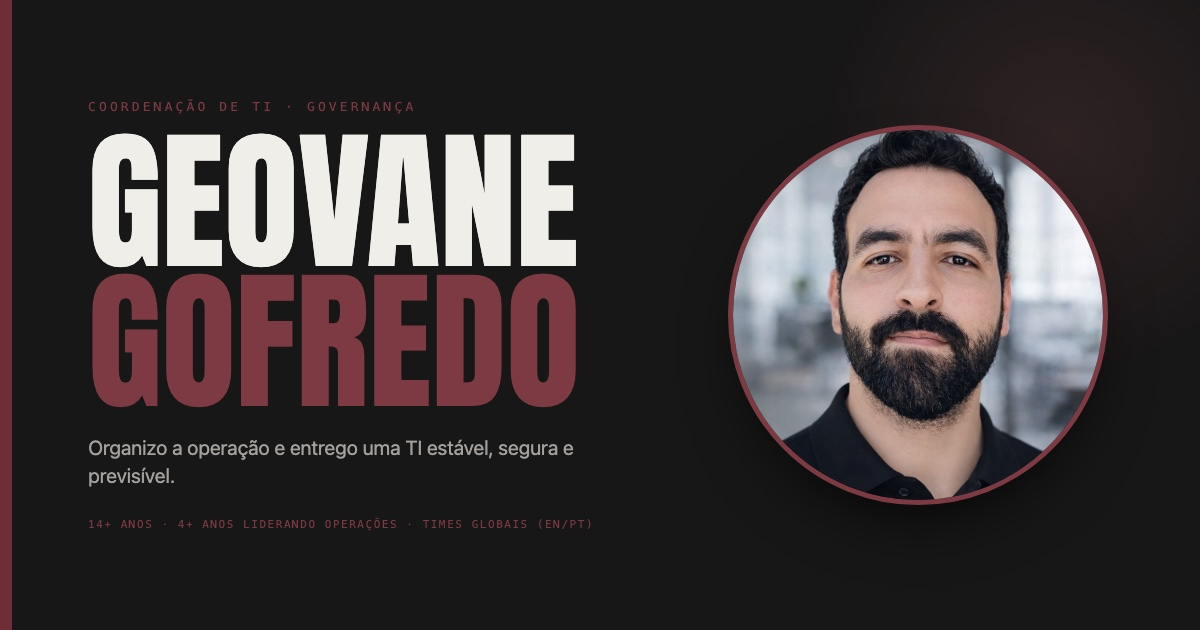
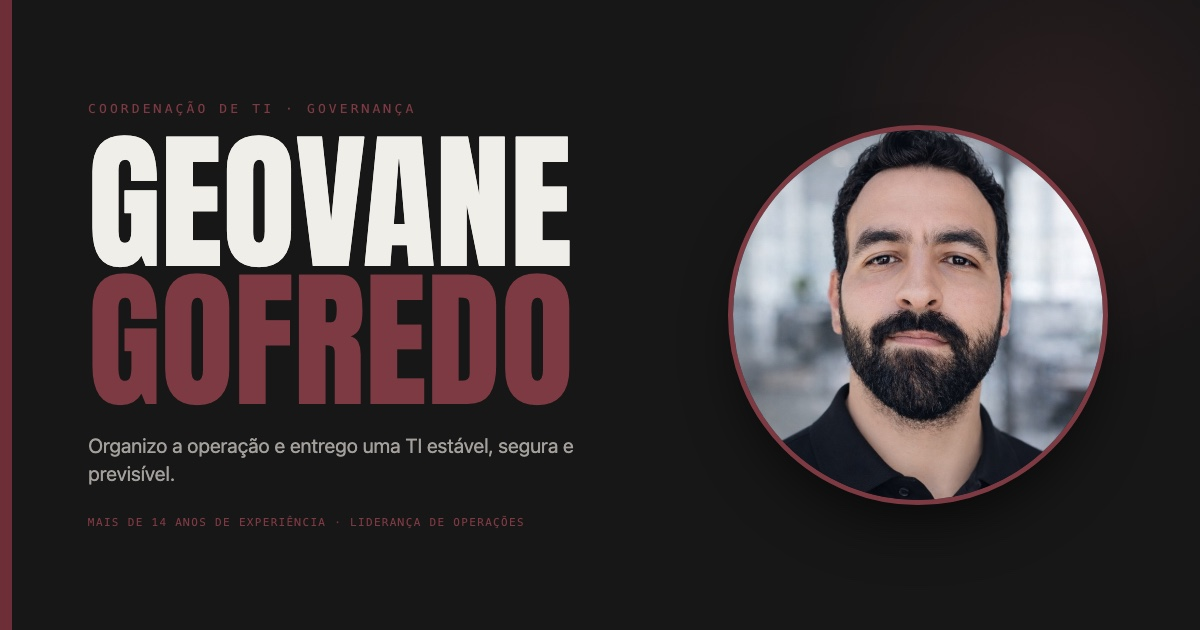
Reorganiza layout, atualiza indicadores e adiciona GitHub

diff --git a/src/components/sections/HeroSection.tsx b/src/components/sections/HeroSection.tsx
@@ -7,7 +7,7 @@ export default function HeroSection() {
   const handle = personalInfo.website.split("/").pop();
 
   return (
-    <section id="top" className="relative w-full max-w-7xl mx-auto px-6 md:px-12 pt-24 pb-12 md:pt-28 md:pb-16 overflow-hidden">
+    <section id="top" className="relative w-full max-w-6xl mx-auto px-6 md:px-12 pt-20 pb-8 md:pt-24 md:pb-12 overflow-hidden">
       <div
         aria-hidden="true"
         className="pointer-events-none absolute inset-0 -z-10 opacity-[0.12]"
@@ -31,12 +31,12 @@ export default function HeroSection() {
         </span>
       </motion.p>
 
-      <div className="grid lg:grid-cols-12 gap-8 lg:gap-12 items-center">
+      <div className="grid lg:grid-cols-[minmax(0,720px)_auto] gap-8 lg:gap-16 items-center">
         <motion.div
           initial={{ opacity: 0, y: 18 }}
           animate={{ opacity: 1, y: 0 }}
           transition={{ duration: 0.55, delay: 0.08 }}
-          className="lg:col-span-7"
+          className="min-w-0"
         >
           <h1 className="font-display uppercase tracking-tight leading-[0.9] text-foreground text-[clamp(3rem,8vw,5rem)]">
             Geovane
@@ -44,21 +44,21 @@ export default function HeroSection() {
             <span className="font-display text-accent-bright">Gofredo</span>
           </h1>
 
-          <p className="mt-7 max-w-2xl text-[20px] md:text-[24px] leading-[1.4] text-foreground">
+          <p className="mt-6 max-w-2xl text-[20px] md:text-[24px] leading-[1.4] text-foreground">
             Organizo a operação e entrego uma TI estável, segura e previsível.
           </p>
 
-          <p className="mt-4 max-w-xl text-[15px] md:text-[16px] leading-[1.7] text-muted">
+          <p className="mt-3 max-w-xl text-[15px] md:text-[16px] leading-[1.7] text-muted">
             Coordenação de equipes N1/N2/N3, governança (ITIL/COBIT), SLAs críticos e gestão de fornecedores — com foco em continuidade, previsibilidade e eficiência.
           </p>
 
-          <div className="mt-6 flex flex-wrap gap-2 font-mono text-[11px] tracking-wide text-muted">
-            <span className="rounded-full border border-border bg-surface px-3 py-1.5">14+ anos</span>
-            <span className="rounded-full border border-border bg-surface px-3 py-1.5">4+ anos liderando operações</span>
+          <div className="mt-5 flex flex-wrap gap-2 font-mono text-[11px] tracking-wide text-muted">
+            <span className="rounded-full border border-border bg-surface px-3 py-1.5">Mais de 14 anos de experiência</span>
+            <span className="rounded-full border border-border bg-surface px-3 py-1.5">Mais de 4 anos liderando operações</span>
             <span className="rounded-full border border-border bg-surface px-3 py-1.5">Times globais (EN/PT)</span>
           </div>
 
-          <div className="mt-8 flex flex-wrap items-center gap-3">
+          <div className="mt-6 flex flex-wrap items-center gap-3">
             <a
               href={personalInfo.whatsapp}
               target="_blank"
@@ -78,7 +78,7 @@ export default function HeroSection() {
             </a>
           </div>
 
-          <div className="mt-7 flex flex-wrap items-center gap-x-5 gap-y-3 font-mono text-[11px] md:text-xs">
+          <div className="mt-5 flex flex-wrap items-center gap-x-5 gap-y-3 font-mono text-[11px] md:text-xs">
             <a href={`mailto:${personalInfo.email}`} className="flex items-center gap-2 text-muted hover:text-accent-bright transition-colors min-w-0">
               <Mail className="h-4 w-4 shrink-0 text-accent-bright" />
               <span className="truncate">{personalInfo.email}</span>
@@ -102,9 +102,9 @@ export default function HeroSection() {
           initial={{ opacity: 0, scale: 0.96 }}
           animate={{ opacity: 1, scale: 1 }}
           transition={{ duration: 0.6, delay: 0.14 }}
-          className="lg:col-span-5"
+          className="shrink-0"
         >
-          <div className="relative mx-auto max-w-[190px] sm:max-w-[220px] lg:max-w-[230px]">
+          <div className="relative mx-auto lg:ml-auto lg:mr-0 max-w-[190px] sm:max-w-[220px] lg:max-w-[230px]">
             <div aria-hidden="true" className="absolute -inset-3 rounded-full bg-accent-soft blur-xl" />
             <picture>
               <source srcSet={`${import.meta.env.BASE_URL}img/geovane.webp`} type="image/webp" />

diff --git a/src/components/sections/ContentSection.tsx b/src/components/sections/ContentSection.tsx
@@ -16,38 +16,47 @@ function formatDateRange(start: string, end: string | null): string {
 export default function ContentSection() {
   return (
     <>
-      <section id="experiencia" className="w-full max-w-7xl mx-auto px-6 md:px-12 py-20 md:py-28">
-        <h2 className="label-mono mb-10">Experiência profissional</h2>
+      <section id="experiencia" className="w-full max-w-6xl mx-auto px-6 md:px-12 py-14 md:py-20">
+        <h2 className="label-mono mb-8">Experiência profissional</h2>
 
-        <ol className="relative border-l border-border pl-6 md:pl-10 space-y-8">
+        <div className="border-t border-border">
           {experience.map((job, index) => (
-            <motion.li
+            <motion.article
               key={job.id}
               initial={{ opacity: 0, y: 20 }}
               whileInView={{ opacity: 1, y: 0 }}
               viewport={{ once: true, amount: 0.2 }}
               transition={{ duration: 0.5, delay: index * 0.05 }}
-              className="relative"
+              className="grid gap-3 md:grid-cols-[190px_1fr] md:gap-10 border-b border-border py-6 md:py-8"
             >
-              <span className="absolute -left-[31px] md:-left-[47px] top-1.5 w-2.5 h-2.5 rounded-full bg-accent-bright ring-4 ring-background" aria-hidden="true" />
-              <div className="font-mono text-[11px] uppercase tracking-[0.18em] text-accent-bright">
-                {formatDateRange(job.startDate, job.endDate)}
+              <div>
+                <div className="font-mono text-[11px] uppercase tracking-[0.18em] text-accent-bright">
+                  {formatDateRange(job.startDate, job.endDate)}
+                </div>
+                <div className="mt-2 text-[14px] font-semibold text-foreground">
+                  {job.company}
+                </div>
+                {job.location && (
+                  <div className="mt-1 font-mono text-[10px] uppercase tracking-wide text-muted">
+                    {job.location}
+                  </div>
+                )}
               </div>
-              <h3 className="mt-2 text-[18px] md:text-[20px] font-semibold tracking-tight text-foreground leading-snug">
-                {job.role}
-              </h3>
-              <div className="font-mono text-[11px] tracking-wide text-muted mt-1">
-                {job.company}
-                {job.location ? ` · ${job.location}` : ""}
+              <div>
+                <h3 className="text-[18px] md:text-[20px] font-semibold tracking-tight text-foreground leading-snug">
+                  {job.role}
+                </h3>
+                <p className="mt-3 text-[15px] leading-[1.7] text-muted max-w-3xl whitespace-pre-line">
+                  {job.description}
+                </p>
               </div>
-              <p className="mt-3 ml-6 md:ml-12 text-[15px] leading-[1.65] text-muted max-w-3xl whitespace-pre-line">{job.description}</p>
-            </motion.li>
+            </motion.article>
           ))}
-        </ol>
+        </div>
       </section>
 
-      <section id="competencias" className="w-full max-w-7xl mx-auto px-6 md:px-12 py-20 md:py-28">
-        <h2 className="label-mono mb-10">Competências técnicas</h2>
+      <section id="competencias" className="w-full max-w-6xl mx-auto px-6 md:px-12 py-14 md:py-20">
+        <h2 className="label-mono mb-8">Competências técnicas</h2>
 
         <div className="grid grid-cols-1 md:grid-cols-2 gap-5">
           {skillCategories.map((category, index) => (

diff --git a/src/data/portfolio-data.ts b/src/data/portfolio-data.ts
@@ -23,7 +23,7 @@ export const personalInfo: PersonalInfo = {
   email: "geovane.gofredo@outlook.com",
   phone: "(11) 96882-8204",
   whatsapp: `https://wa.me/5511968828204?text=${whatsappMessage}`,
-  bio: "Sou líder de TI e profissional com mais de 14 anos de carreira construída na prática — evoluindo da operação técnica e do suporte avançado bilíngue até a coordenação de equipes, governança e operações de infraestrutura em ambientes corporativos e industriais de alta criticidade.\n\nOrganizo a operação e entrego uma TI estável, segura e previsível: lidero equipes N1/N2/N3, gestão de incidentes críticos, SLAs e KPIs, governança (ITIL/COBIT), gestão de fornecedores, projetos de infraestrutura e cloud, continuidade de negócios e segurança. Meu foco é tirar a TI do modo reativo e consolidar uma operação estável e previsível. Inglês avançado/fluente para atuação com times globais.",
+  bio: "Sou líder de TI e profissional com mais de 14 anos de carreira construída na prática — evoluindo da operação técnica e do suporte avançado bilíngue até a coordenação de equipes, governança e operações de infraestrutura em ambientes corporativos e industriais de alta criticidade. Lidero equipes N1/N2/N3, gestão de incidentes críticos, SLAs e KPIs, governança (ITIL/COBIT), gestão de fornecedores, projetos de infraestrutura e cloud, continuidade de negócios e segurança, com inglês avançado/fluente para atuação com times globais.",
   skills: "Governança de TI, Coordenação de TI, Gestão de Operações, Service Delivery (SDM), Liderança de Equipes, ITIL, COBIT, ITSM, Gestão de Incidentes, Gestão de Problemas, GMUD, RCA, SLA, KPI, MTTR, FCR, CSAT, Gestão de Fornecedores, Contratos, CapEx/OpEx, ITAM, CMDB, LGPD, Compliance, BCP, DRP, Scrum, Kanban, PMBOK, Microsoft 365, Azure, Entra ID, Intune, Autopilot, MDM/MAM, Exchange Online, SharePoint Online, Teams Admin, Google Workspace, DaaS, Windows Server, Active Directory, GPO, DNS, DHCP, File Server, Linux, macOS, Proxmox, VMware, Hyper-V, VPS, Docker, RMM, Zabbix, Grafana, ServiceNow, Jira Service Management, GLPI, Redes Corporativas, TCP/IP, Roteamento, Switching, VLANs, Cabeamento Estruturado, Firewall, VPN Site-to-Site, VPN Client-to-Site, EDR, Antivírus, Acesso Condicional, Privilégio Mínimo, Backup Local, Backup em Nuvem, Acronis, Veeam, Hardware",
 };
 

diff --git a/src/components/sections/ProjectsSection.tsx b/src/components/sections/ProjectsSection.tsx
@@ -1,4 +1,5 @@
 import { motion } from "framer-motion";
+import { Github, ArrowUpRight } from "lucide-react";
 
 const projects = [
   {
@@ -26,8 +27,25 @@ const projects = [
 
 export default function ProjectsSection() {
   return (
-    <section id="projetos" className="w-full max-w-7xl mx-auto px-6 md:px-12 py-20 md:py-28">
-      <h2 className="label-mono mb-10">Projetos e resultados</h2>
+    <section id="projetos" className="w-full max-w-6xl mx-auto px-6 md:px-12 py-14 md:py-20">
+      <div className="flex flex-col sm:flex-row sm:items-end sm:justify-between gap-4 mb-8">
+        <div>
+          <h2 className="label-mono">Projetos e resultados</h2>
+          <p className="mt-2 max-w-xl text-[15px] leading-[1.6] text-muted">
+            Principais entregas e resultados com infraestrutura, cloud e governança.
+          </p>
+        </div>
+        <a
+          href="https://github.com/GeovaneYu"
+          target="_blank"
+          rel="noopener noreferrer"
+          className="inline-flex items-center gap-2 rounded-full border border-border bg-surface px-4 py-2.5 font-mono text-[11px] uppercase tracking-widest text-muted hover:text-foreground hover:border-accent-bright hover:bg-surface-hover transition-colors"
+        >
+          <Github className="h-4 w-4" aria-hidden="true" />
+          Ver no GitHub
+          <ArrowUpRight className="h-4 w-4" aria-hidden="true" />
+        </a>
+      </div>
 
       <div className="grid grid-cols-1 md:grid-cols-3 gap-5">
         {projects.map((project, index) => (

diff --git a/src/components/Footer.tsx b/src/components/Footer.tsx
@@ -2,8 +2,8 @@ import { personalInfo } from "@/data/portfolio-data";
 
 export default function Footer() {
   return (
-    <footer className="border-t border-border mt-12">
-      <div className="max-w-7xl mx-auto px-6 md:px-12 py-8 flex flex-col md:flex-row items-center justify-between gap-4">
+    <footer className="border-t border-border mt-8">
+      <div className="max-w-6xl mx-auto px-6 md:px-12 py-8 flex flex-col md:flex-row items-center justify-between gap-4">
         <div className="text-center md:text-left">
           <p className="font-mono text-[10px] uppercase tracking-[0.18em] text-accent-bright">
             Coordenação de TI · Governança · Service Delivery (ITSM/SDM)
@@ -20,6 +20,15 @@ export default function Footer() {
             className="text-muted hover:text-accent-bright transition-colors"
           >
             LinkedIn
+          </a>
+          <span className="text-border">•</span>
+          <a
+            href="https://github.com/GeovaneYu"
+            target="_blank"
+            rel="noopener noreferrer"
+            className="text-muted hover:text-accent-bright transition-colors"
+          >
+            GitHub
           </a>
           <span className="text-border">•</span>
           <a href="mailto:geovane.gofredo@outlook.com" className="text-muted hover:text-accent-bright transition-colors">

diff --git a/src/components/sections/BioSection.tsx b/src/components/sections/BioSection.tsx
@@ -9,19 +9,19 @@ const deliverables = [
 
 export default function BioSection() {
   return (
-    <section id="sobre" className="w-full max-w-7xl mx-auto px-6 md:px-12 py-20 md:py-28">
-      <h2 className="label-mono mb-10 flex items-center gap-3">
+    <section id="sobre" className="w-full max-w-6xl mx-auto px-6 md:px-12 py-14 md:py-20">
+      <h2 className="label-mono mb-8 flex items-center gap-3">
         <span className="h-px w-8 bg-accent-bright" aria-hidden="true" />
         Sobre
       </h2>
 
-      <div className="grid lg:grid-cols-12 gap-12 lg:gap-16 items-start">
+      <div className="grid lg:grid-cols-12 gap-10 lg:gap-14 items-start">
         <div className="lg:col-span-7">
           <blockquote className="font-display uppercase leading-[0.98] tracking-tight text-foreground text-[clamp(2rem,5vw,3.6rem)]">
             Organizo a operação<br />e entrego <span className="text-accent-bright">resultado.</span>
           </blockquote>
 
-          <p className="mt-8 text-[16px] md:text-[17px] leading-[1.75] text-muted whitespace-pre-line max-w-2xl">
+          <p className="mt-6 text-[16px] md:text-[17px] leading-[1.75] text-muted whitespace-pre-line max-w-2xl">
             {personalInfo.bio}
           </p>
         </div>

diff --git a/src/components/sections/ContactSection.tsx b/src/components/sections/ContactSection.tsx
@@ -11,13 +11,13 @@ export default function ContactSection() {
   ];
 
   return (
-    <section id="contato" className="w-full max-w-7xl mx-auto px-6 md:px-12 py-20 md:py-28">
+    <section id="contato" className="w-full max-w-6xl mx-auto px-6 md:px-12 py-14 md:py-20">
       <motion.div
         initial={{ opacity: 0, y: 20 }}
         whileInView={{ opacity: 1, y: 0 }}
         viewport={{ once: true, amount: 0.2 }}
         transition={{ duration: 0.6 }}
-        className="glass-card rounded-2xl p-8 md:p-10"
+        className="glass-card rounded-2xl p-6 md:p-8"
       >
         <h2 className="label-mono mb-6">Contato</h2>
         <p className="text-[22px] md:text-[30px] font-bold tracking-tight leading-[1.15] max-w-3xl">

diff --git a/src/components/NavBar.tsx b/src/components/NavBar.tsx
@@ -50,7 +50,7 @@ export default function NavBar() {
     >
       <nav
         aria-label="Navegação principal"
-        className="max-w-7xl mx-auto px-4 md:px-12 h-16 flex items-center gap-2 md:gap-4"
+        className="max-w-6xl mx-auto px-4 md:px-12 h-16 flex items-center gap-2 md:gap-4"
       >
         <a href="#top" className="shrink-0 label-mono text-foreground hover:text-accent-bright transition-colors">
           GG<span className="text-accent-bright">.</span>
